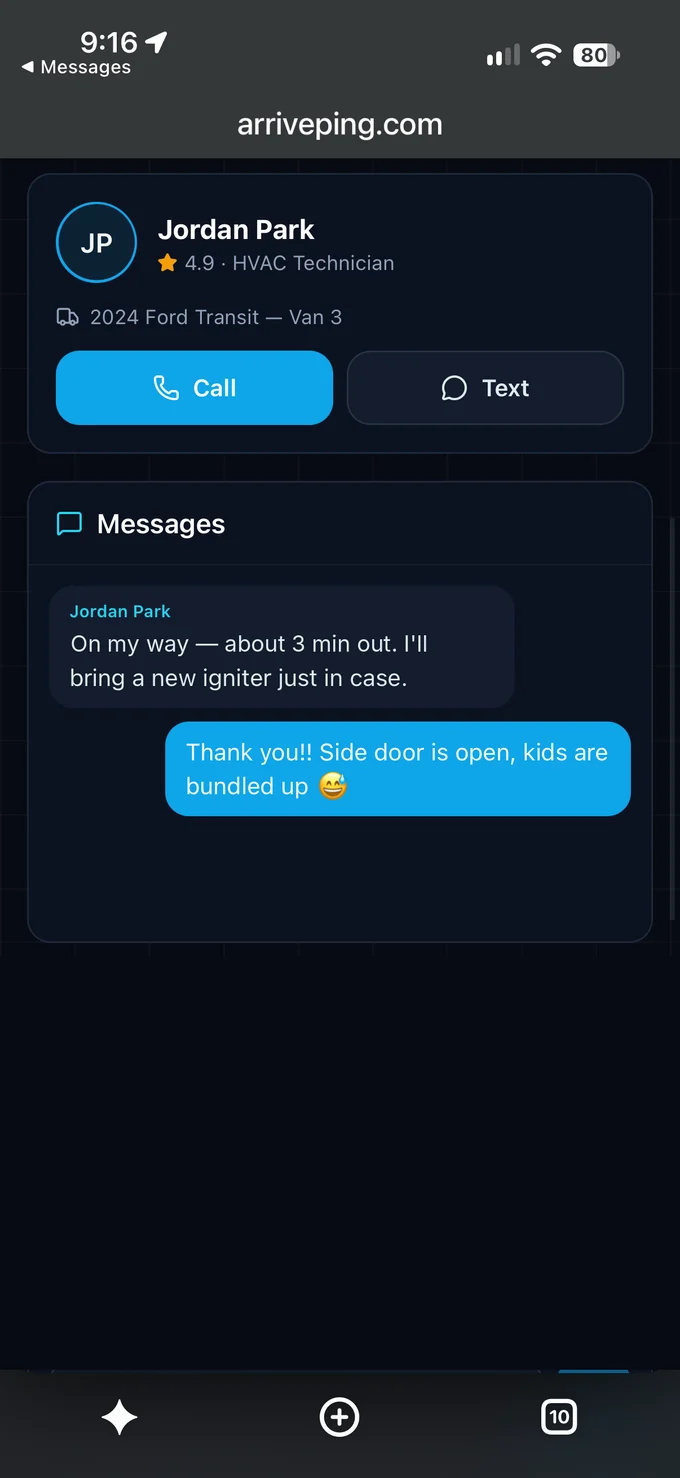
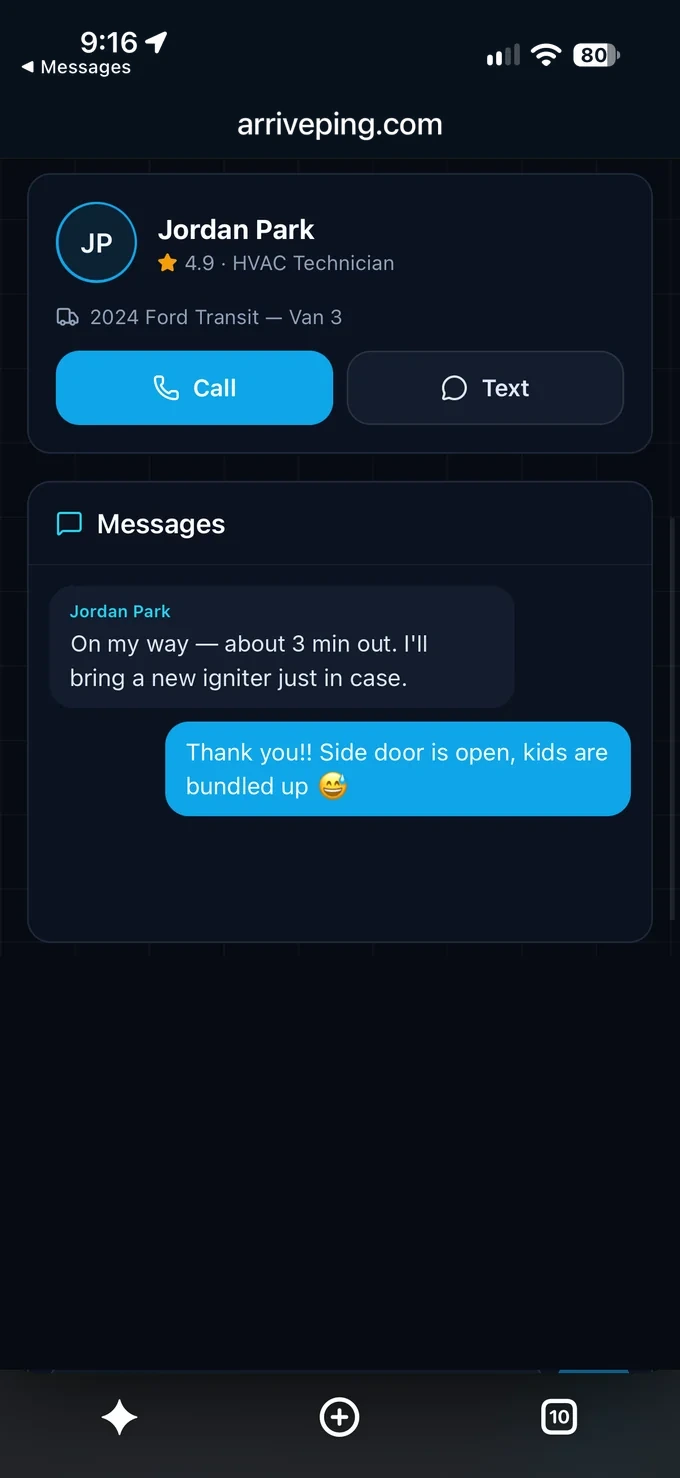
site: clean the Safari header on the live-page and technician phone screens; add the 12-year line
The grey header band on the two browser screenshots now matches the page's
own dark background, with the status icons and URL kept. Adds the ethos line
under 'Why homeowners care': customers have wanted this for 12 years.

Claude-Session: https://claude.ai/code/session_01NbP46AD6FSM3TXQFTLdn6c

Changed region(s): [[0.0, 0.0, 1.0, 0.1245]]

diff --git a/packages/web/src/web/site/config.ts b/packages/web/src/web/site/config.ts
@@ -137,6 +137,9 @@ export const customerView = {
       },
     },
   ],
+  /** The ethos, said once: the want is old (the oldest survey below is from 2014); the fix is new. */
+  whyLede:
+    "Customers have wanted this for 12 years. ArrivePing makes it easy, quick and inexpensive.",
   /** Sourced figures only: every number links to the original survey. */
   stats: [
     {

diff --git a/packages/web/src/web/site/live/CustomerView.tsx b/packages/web/src/web/site/live/CustomerView.tsx
@@ -63,6 +63,7 @@ export function CustomerView() {
 
         <div className="ap-cv__why" data-reveal="">
           <h3 className="ap-cv__whyhead">Why homeowners care</h3>
+          <p className="ap-cv__lede">{customerView.whyLede}</p>
           <ul className="ap-cv__stats">
             {customerView.stats.map((st) => (
               <li key={st.value}>

diff --git a/packages/web/src/web/site/live/opening.css b/packages/web/src/web/site/live/opening.css
@@ -396,6 +396,13 @@
   text-transform: uppercase;
   color: var(--ink-muted);
 }
+.site .ap-cv__lede {
+  margin: 14px 0 0;
+  max-width: 40ch;
+  font: 500 clamp(20px, 2.2vw, 26px) / 1.3 var(--font-display, var(--font-body));
+  color: var(--ink);
+  text-wrap: balance;
+}
 .site .ap-cv__stats {
   list-style: none;
   margin: 24px 0 0;
